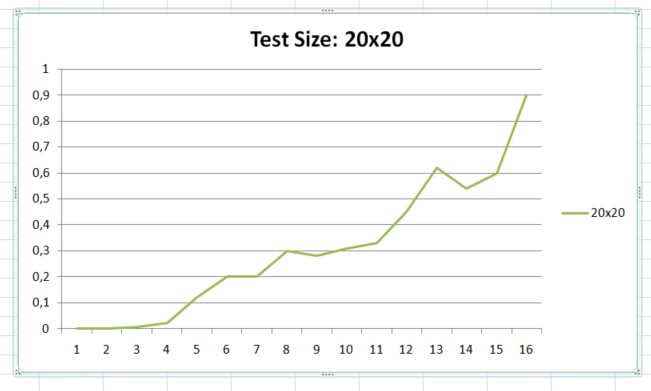
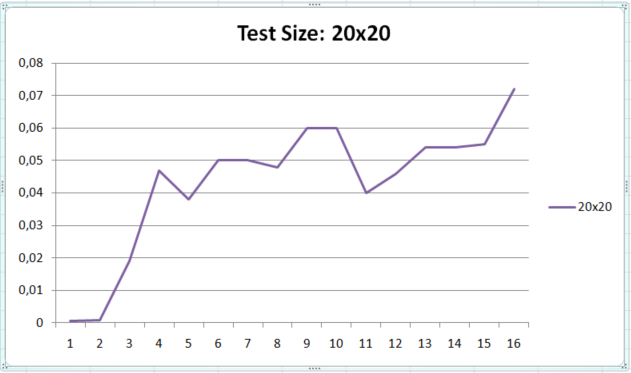
update README.md

Changed region(s): [[0.0, 0.0, 1.0, 1.0]]

diff --git a/main.c b/main.c
@@ -292,10 +292,10 @@ int main(int argc, char *argv[]) {
     MPI_Barrier(MPI_COMM_WORLD);
     stop = MPI_Wtime();
     double result = stop - start;
-    //printf("[RANK %d] %f \n", rank, result);
+    printf("[RANK %d] %f \n", rank, result);
     MPI_Allreduce(&result, &result, 1, MPI_DOUBLE, MPI_SUM, MPI_COMM_WORLD);
     if (rank == 0) {
-        printf("[RANK 0] %f \n", result);
+        printf("[RANK 0] %f \n", result/processes);
     }
     print_grid(grid, startup_info.row, startup_info.col, rank, processes, mpi_city_type);
     clear_memory(grid, cache, startup_info.row);

diff --git a/README.md b/README.md
@@ -1,19 +1,21 @@
-| Schelling Model 25/05/2021 |
+| Schelling Model | Francesco Truono | 30/05/2021 |
 | --- | --- | --- | --- |
 
 # Soluzione Proposta
 
-La soluzione proposta al problema del modello di segregazione di Schelling  è suddivisa in 4 fasi principali:
+La soluzione proposta al problema del modello di segregazione di Schelling è suddivisa in 4 fasi principali:
 
 1.Lettura in input da parte del **rank 0** delle dimensioni della griglia, numero di agenti rossi, numero di celle vuote e soddisfazione (valida per ogni agente)
 Dopodichè il processo 0 si occupa di dividere gli input e comunicarli agli altri processi.
  
-2.Una volta che ogni processo ha inizializzato la proprio sotto-griglia e le strutture ausiliare esegue una richiesta delle righe adiacenti e verifica per ogni cella il grado di soddisfazione salvando le informazioni <ins>del processo di partenza,di destinazione e le coordinate locali alla griglia.</ins> Questa  struttura di supporto è fondamentale per lo scambio, ed è chiamata UnHappy.
+2.Una volta che ogni processo ha inizializzato la proprio sotto-griglia e le strutture ausiliare esegue una richiesta delle righe adiacenti e verifica per ogni cella il grado di soddisfazione salvando le informazioni <ins>del processo di partenza,di destinazione e le coordinate locali alla griglia.</ins>.
+Questa  struttura di supporto è fondamentale per lo scambio, ed è chiamata **UnHappy**.
 Quindi ogni processo avrà un elenco di celle insoddisfatte, tale numero viene comunicato a tutti e viene individuata la somma e il numero massimo.
 
 3.La lista di tipo *UnHappy* in questo momento non è sincronizzata con gli altri processi e di conseguenza ogni processo presenta una lista differente, si usa un analogo principio di gathering utilizzato nel punto 2 in modo da avere l’elenco di tutte le celle non soddisfatte.
 
-4.L’ultima fase consiste nello spostamento delle celle non soddisfatte, dove analizzando la lista unHappy ogni processo controlla se il **processo di destinazione è se stesso**, modifica la griglia e marca l’i-esima posizione della lista. La fase finale consiste nel sincronizzare la lista e inserire il vuoto nella cella precedentemente spostata.
+4.L’ultima fase consiste nello spostamento delle celle non soddisfatte, dove analizzando la lista unHappy ogni processo controlla se il **processo di destinazione è se stesso**, modifica la griglia e marca l’i-esima posizione della lista. 
+La fase finale consiste nel sincronizzare la lista e inserire il vuoto nella cella precedentemente spostata.
 
 Il punto 1 si occupa di assegnare, per le celle insoddisfatte, un processo che è generato casualmente ciò implica che dato lo stesso input **è possibile avere output differenti e tempi di esecuzioni differenti** dato la casualità della selezione e l'impatto aumenta con l'aumentare il numero dei processi.
 Il punto 4, invece consiste nello “spostare” la cella sulla griglia, tale operazione non segue una logica casuale ma bensì una volta che è stato selezionato il processo prende la prima disponibile e la occupa con il valore presente nella lista sincronizzata.
@@ -26,7 +28,7 @@ Per comprendere le parti salienti è necessario partire dalle strutture dati uti
 ```C
 
 enum STATUS {
-    RED, BLUE, EMPTY,PADDING
+    RED, BLUE, EMPTY
 };
 
 typedef struct {
@@ -53,6 +55,7 @@ typedef struct {
 enum ALLOCATION {
     ALLOCATED,
     NOT_ALLOCATED,
+    ALREADY_ALLOCATED
     INVALID
 };
 
@@ -118,17 +121,19 @@ Per ottenere la soddisfazione, partiamo da una serie di immagini che semplifican
 
 Supponiamo di avere questa matrice di dimensioni 6x6, dove il rosso e l'azzurro sono i due agenti.
 
-<img src="mat0.png" />
+<img src="mat1.png" />
 
-Ora prendiamo in considerazione la riga 5 colonna 2 come indicato in figura
+Ora prendiamo in considerazione la riga 3 colonna 2 come indicato di seguito in figura (indicata con una X bianca)
 
-<img src="mat1.PNG" />
+<img src="mat1X.png" />
 
-I punti indicati in nero sono quelli da verificare, supponiamo che questa matrice è stata divisa tra due processi denominati di seguito **P0** - **P1**, come mostrato di seguito
+Ora supponiamo che questa matrice è stata divisa tra due processi denominati, come da immagine, **P0** - **P1**.
+Invece le celle in verde sono quelli da verificare.
+Ma P1 non possiede una riga necessaria al confronto, come si nota nell'immagine seguente:
 
-<img src="mat2.PNG" />
+<img src="mat2.png" />
 
-Dove la linea in giallo rappresenta ciò che è necessario sapere da **P0** affinchè **P1** possa verificare le sue adiacenze, analogo discorso per **P0** che ha bisogno della riga 4.
+La linea in giallo rappresenta ciò che è necessario sapere da **P0** affinchè **P1** possa verificare le sue adiacenze, analogo discorso per **P0** che ha bisogno della riga 3.
 Un ulteriore caso è rappresentato invece da un processo che si trova *al centro* quindi che non corrisponde **nè all'ultimo nè al primo**
 In quel caso ha bisogno della riga superiore appartenente a **Px-1** e della riga successiva appartenente a **Px+1**
 
@@ -159,7 +164,7 @@ if (proc == 0) {
 
 ```
 
-Gli unici casi in cui non si deve inviare/ricevere sia da **Px-1** che **Px+1** sono il primo e l'ultimo processo-
+Gli unici casi in cui non si deve inviare/ricevere sia da **Px-1** che **Px+1** sono il primo e l'ultimo processo.
 
 Il confronto a questo punto risulta semplice: se non rientra nel range della matrice significa che bisogna andare a recuperare da questo vettore *cache*
 
@@ -200,10 +205,10 @@ Supponendo di avere 3 processi **P0-P1-P2** avremo una situazione del genere dop
 
 <img src="gather0.png" />
 
-Ora che ogni processo sa coloro che **vogliono spostarsi** e anche **dove** ogni processo non deve far altro
-che controllare questa lista e verificare se il **processo di destinazione è lui**
+Ora che ogni processo sa coloro che **vogliono spostarsi** e anche **dove**, ognuno di loro non deve far altro
+che controllare questa lista e verificare se il **processo di destinazione è lui**.
 
-Prende la prima cella libere a la occupa, **senza preoccuparsi di liberare quella antecedente**.
+Se è cosi prende la prima cella libere a la occupa, **senza preoccuparsi di liberare quella antecedente**.
 ```C
 search_first_empty(grid_city, row, col, &nx, &ny);
             if (nx != -1 && ny != -1) {
@@ -221,14 +226,14 @@ search_first_empty(grid_city, row, col, &nx, &ny);
                 unhappy_list[i].last_edit_by = rank;
             }
 ```
-L'assegnazione al last_edit_by funziona come da marcatore, quindi ogni processo avrà una lista con le celle marcate.
+L'assegnazione al last_edit_by funziona come da **marcatore**, quindi ogni processo avrà una lista con le celle marcate.
 Di conseguenza bisogna creare **un' unica lista comune tra tutti i processi**
 Di seguito l'immagine che illustra visivamente il concetto:
 
 <img src="move.png" />
 
-Ogni processo ha provato ad allocare le celle destinate ad esso, in questo caso riuscendoci e **marcandolo con il proprio rank** e il valoce **A**
-per lo stato di allocazione (N: Non allocato A: Allocato)
+Ogni processo ha provato ad allocare le celle destinate ad esso, in questo caso riuscendoci e **marcandolo con il proprio rank** ed il valore **A**
+per lo stato di allocazione (N: Non allocato A: Allocato AA: Già allocato)
 La fase di sincronizzazione della lista avviene tramite una reduce e un **operatore ridefinito**, che si occupa proprio di fare il
 join dell'immagine vista sopra e "distribuirlo a tutti i processi"
 
@@ -242,29 +247,60 @@ MPI_Allreduce(temp, total_proc, size, mpi_unhappy, mpi_unhappy_difference, MPI_C
 
 //Funzione dell'operatore
 void difference_unhappy(UnHappy *in, UnHappy *inout, int *len, MPI_Datatype *dtype) {
-    for (int i = 0; i < *len; ++i) {
-        if (in[i].last_edit_by != -1 && in[i].allocation_result != INVALID) {
+for (int i = 0; i < *len; ++i) {
+    if (in[i].allocation_result != INVALID) {
+        if (in[i].last_edit_by != -1) {
             inout[i].allocation_result = in[i].allocation_result;
             inout[i].destination_proc = in[i].destination_proc;
             inout[i].last_edit_by = in[i].last_edit_by;
         }
     }
+  }
 }
 
 ```
 
 L'ultima fase consiste semplicemente nello scorrere la lista ricevuta e verificare se è stato allocato e il processo originario 
-corrisponde a quello attuale, allora non si fa altro che aggiornare la griglia con le celle vuote. 
+corrisponde a quello attuale, allora non si fa altro che aggiornare la griglia con le celle vuote e inserire lo stato di **ALREADY_ALLOCATED** in caso si ripetesse
+il ciclo di allocazione.
+
+```C
+int size = unsatisfied * processes;
+
+for (int i = 0; i < size; ++i) {
+    if (unhappy_list[i].allocation_result == ALLOCATED && unhappy_list[i].original_proc == rank) {
+        int x = 0;
+        int j = 0;
+        x = unhappy_list[i].x;
+        j = unhappy_list[i].y;
+        grid_city[x][j].status = EMPTY;
+        grid_city[x][j].locked = false;
+        grid_city[x][j].satisfacion = 0;
+        unhappy_list[i].allocation_result = ALREADY_ALLOCATED;
+        unhappy_list[i].last_edit_by = rank;
+```
+Nel caso in cui ci fossero processi che non sono stati riusciti ad essere allocati, si ripete il ciclo per ogni processo, dato che ogni processo ha la medesima lista.
+
+```C
+do {
+    try_to_move(unHappy_all_proc, grid, rank, max_unsatisfied, processes, startup_info.row, startup_info.col);
+    unhappy_reduce(unHappy_all_proc, max_unsatisfied, rank, processes, mpi_unhappy, mpi_unhappy_difference);
+    
+} while (update_with_empty_space(unHappy_all_proc, grid, rank, max_unsatisfied, processes) > 0);
+
+```
+
+L'ultima parte consiste nel liberare la memoria dalle liste e ripetere il ciclo per verificare se ci sono nuovamente insodisfatti.
 
 # Performance e Scalabilità
 
 I test sono stati eseguiti su un cluster di macchine **m4.xlarge** EC2 di AWS.
-Il modello di Schelling dato che potrebbe richiedere **tempi di esecuzione differenti anche sullo stesso input** i seguenti grafici sono il
+Il modello di Schelling dato che potrebbe richiedere **tempi di esecuzione differenti anche sugli stessi input**, i grafici presentati nei paragrafi successivi sono il
 risultato di una media di esecuzioni.
 Altro parere da tenere presente che con griglie molto grandi e poco spazio è molto facile finire in un loop, per questo motivo i test sono stati effettuati
-su griglie che dovrebbero avere spazio a sufficienza per essere risolti oppure con agenti che non dovrebbero avere un grado di soddisfazione molto alto.
+su griglie che dovrebbero avere spazio a sufficienza per essere risolti oppure con agenti che non hanno un grado di soddisfazione molto alto.
 
-Le taglie scelte per i test sono 3: *20x20* - *50x50* - *80x80*
+Le taglie scelte per i test sono 3: *20x20* - *50x50* - *200x200*
 
 Per avere lo stesso input all'interno del progetto è stata modificata la generazione del numero casuale mettendo come
 seed il rank. Ovviamente ciò comporta anche a una scelta *"meno casuale"* del processo di destinazione 
@@ -278,7 +314,7 @@ Inoltre sono stati esclusi i tempi di generazioni delle stesse sottomatrici.
 E' stato particolarmente utile il sito *http://nifty.stanford.edu/2014/mccown-schelling-model-segregation/* nel trovare un punto di equilibrio per eseguire 
 i test evitando loop infiniti.
 
-Inoltre è stato creato un hfile per ogni nodo del cluster, specificando esclusivamente il numero di slots
+Inoltre è stato creato un hfile che contiene ogni nodo del cluster, specificando esclusivamente il numero di slots
 ```bash
 172.31.52.73 slots=4
 172.31.55.87 slots=4
@@ -305,27 +341,26 @@ con gli argomenti.
 
 ## Scalabilità forte
 
-Per i test sulla scalabilità forte è stato scelto un input di **20x20** - **50x50** - **80x80** - **200x200**
-Il test su 20x20 è stato impostato con i seguenti parametri:
+Per i test sulla scalabilità forte sono stati scelti input di **20x20** - **50x50** - **80x80** - **200x200**
+Il test 20x20 è stato impostato con i seguenti parametri:
 *Size*: 20
 *Empty*: 150
 *Blue* 140
 *Satisfaction* 60
 
-Il test su 50x50 è stato impostato con i seguenti parametri:
+Il test 50x50 è stato impostato con i seguenti parametri:
 *Size*: 50
 *Empty*: 500
 *Blue*: 1000
 *Satisfaction*: 50
 
-Il test su 80x80 è stato impostato con i seguenti parametri:
+Il test 80x80 è stato impostato con i seguenti parametri:
 *Size*:80
 *Empty*: 1280
 *Blue*: 2500
 *Satisfaction*: 60
 
-Il test su 200x200 è stato impostato con i seguenti parametri:
-
+Il test  200x200 è stato impostato con i seguenti parametri:
 *Size*:200
 *Empty*: 9000
 *Blue*: 16000
@@ -353,7 +388,7 @@ Nel caso di **200x200* si ha un miglioramento iniziale molto alto, ma con l'aume
 soprattutto dal 8° processore in poi.
 
 
-##Scalabilità debole
+## Scalabilità debole
 
 Alcuni dei test effettuati per la scalabilità debole sono validi anche per la scalabilità forte, dato che la divisione delle matrici è data
 da **N/P**, dove **N** rappresenta il numero di righe e **P** il numero di processori.
@@ -373,8 +408,19 @@ Il file si chiama *weak.c* e prevede gli stessi input precedenti con l'aggiunta 
 mpirun -np [N_PROC] --hostfile hfile ./weak [ROWS] [COLS] [EMPTY_CELL] [BLU AGENT] [SATISFACTION] 
 ```
 
-I test effettuati variano le dimensioni delle colonne in modo tale da avere costantemente gli stessi elementi gestiti da ogni matrice.
+I test effettuati variano le dimensioni delle *colonne* in modo tale da avere costantemente gli stessi elementi gestiti da ogni processo.
+Dato che con il variare delle colonne varia anche il numero di caselle disponibili di conseguenza gli agenti e le caselle vuote sono stati trattati in maniera proporzionali, 
+di conseguenza il numero di round non è esattamente lo stesso per ogni esecuzione.
+
+Di seguito i risultati con matrici di dimensione Nx10 e Nx50
+
+<img src="weak10x10.png" />
+<img src="weak50x50.png" />
 
 
+# Conclusioni
 
+La paralelizzazione è un ottimo strumento per ridurre i tempi e sfruttare al massimo le capacità fisiche di una o più macchine, ma ciò che è veramente importante
+è individuare quando conviene paralellizzare e dove. Nella relazione sono state usate anche matrici di dimensioni molto piccole a riprova del fatto che
+la **paralelizzazione** non è la risolutrice di tutti i mali.
 
